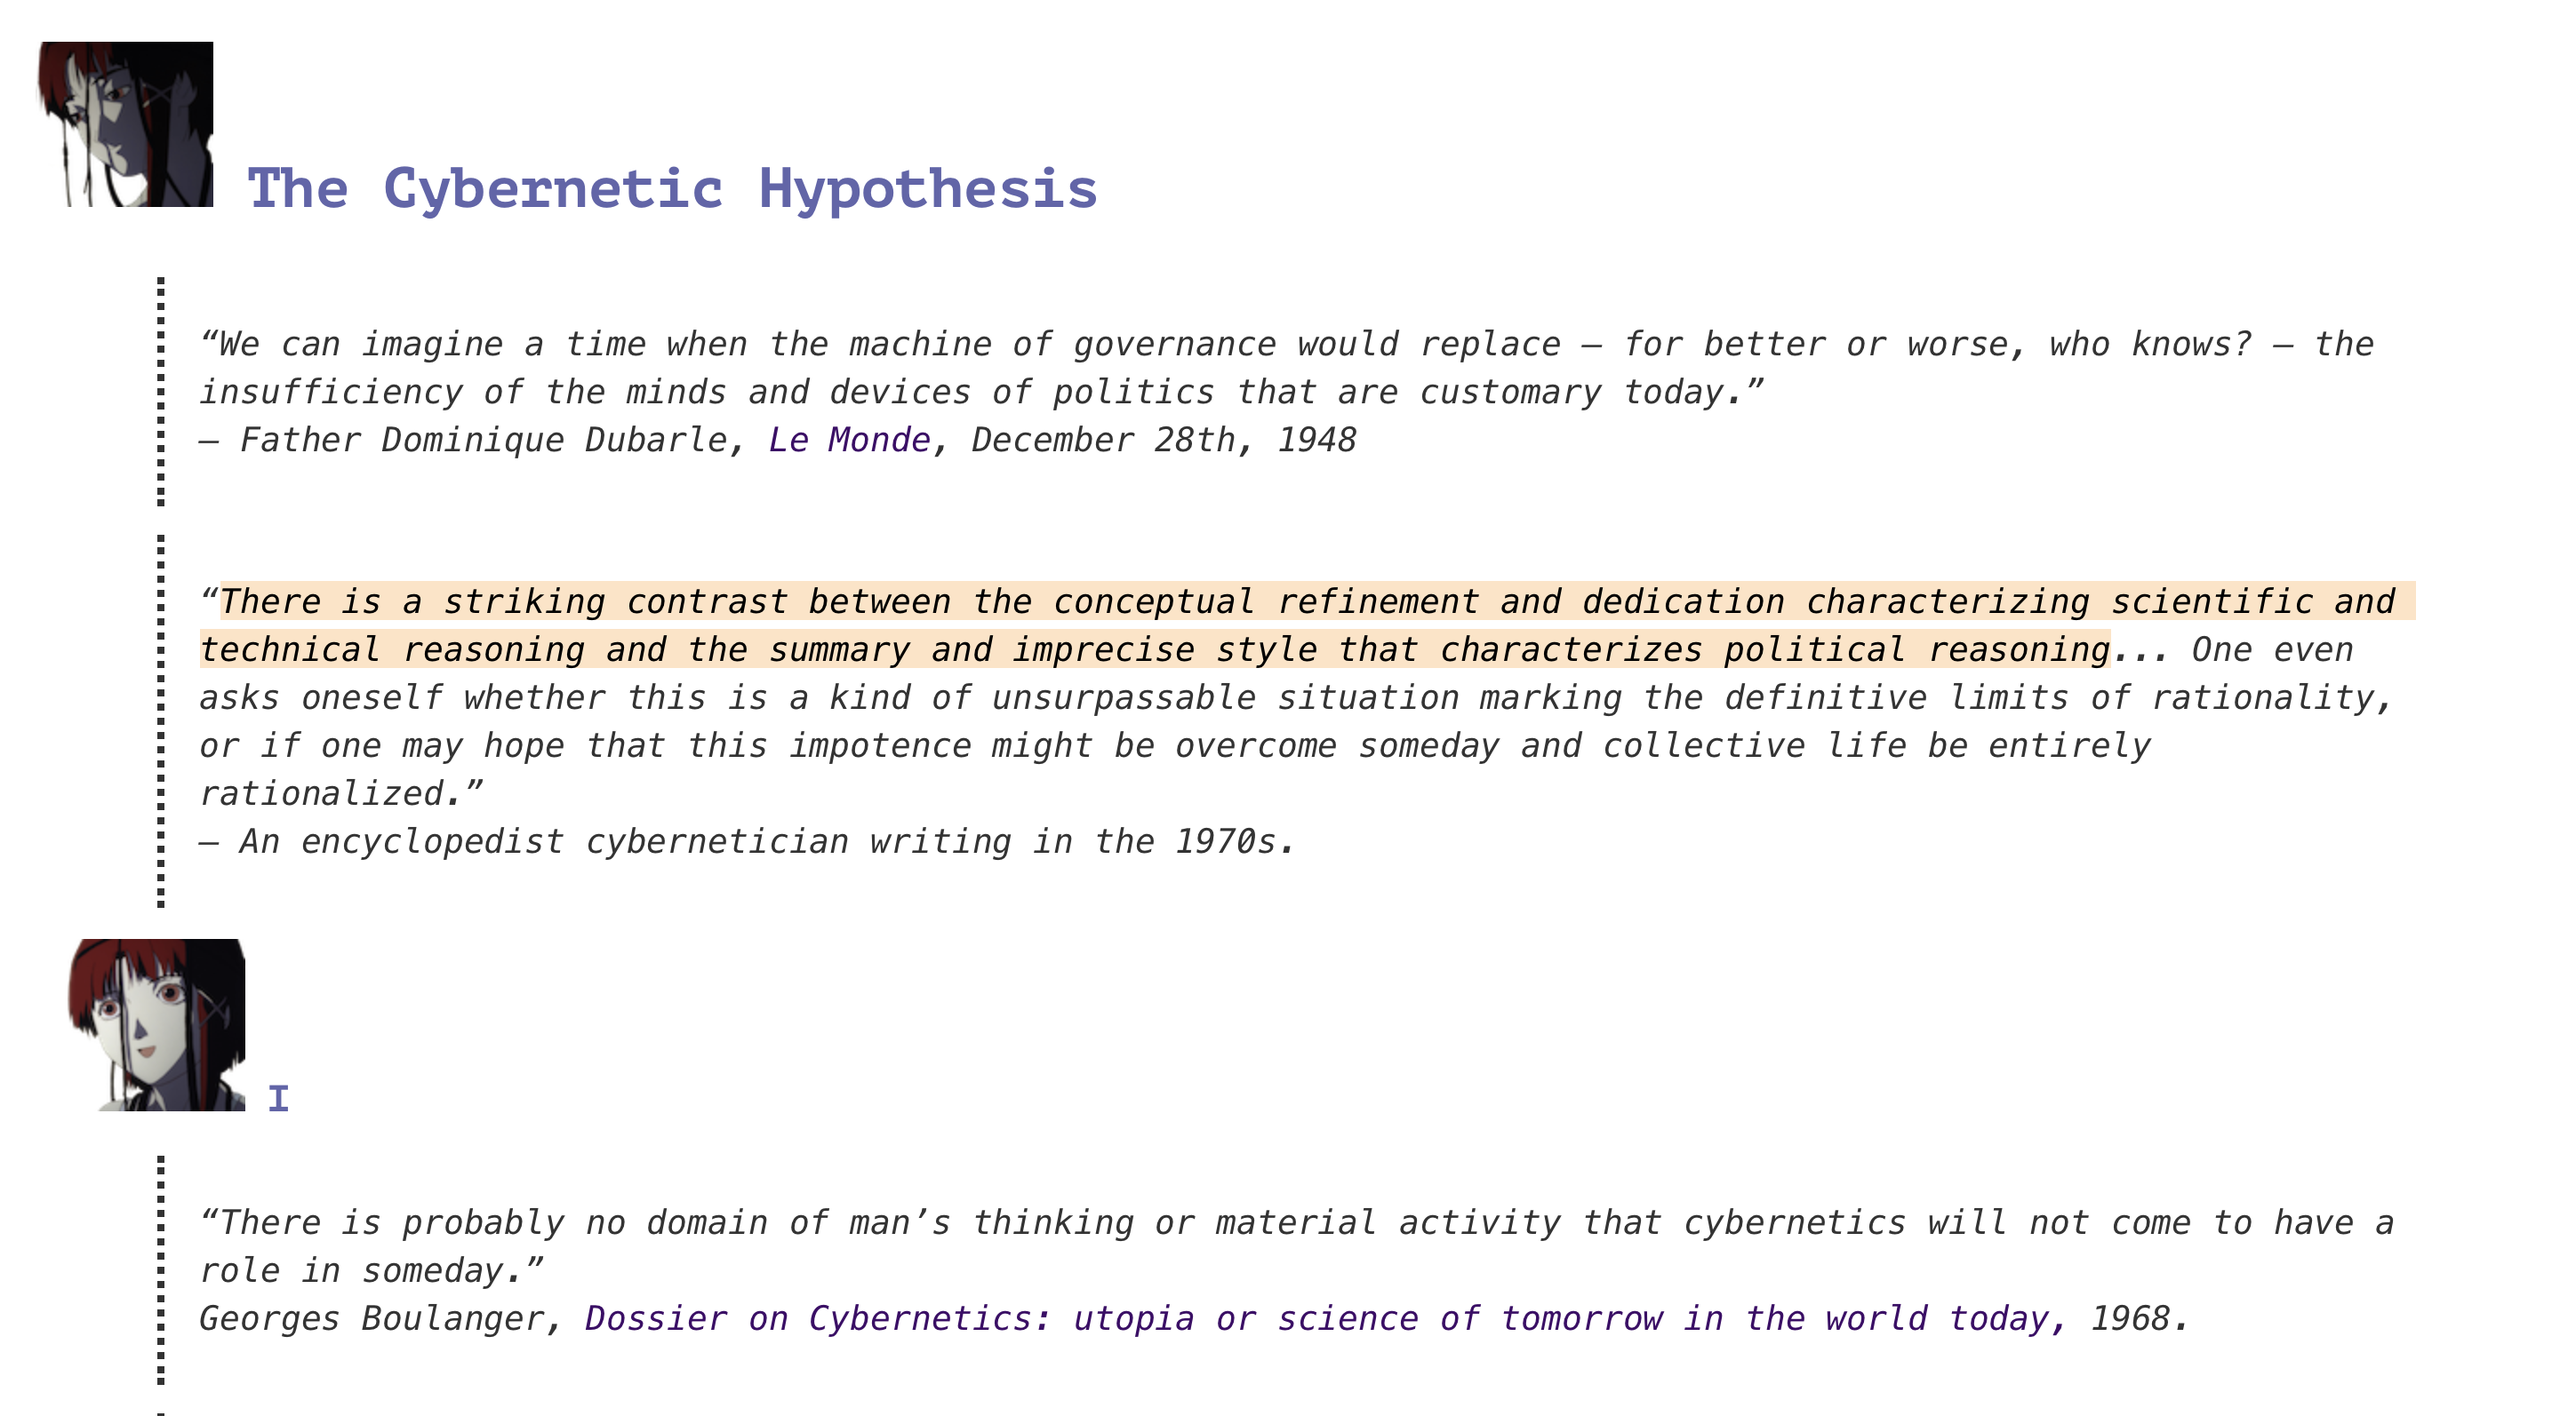
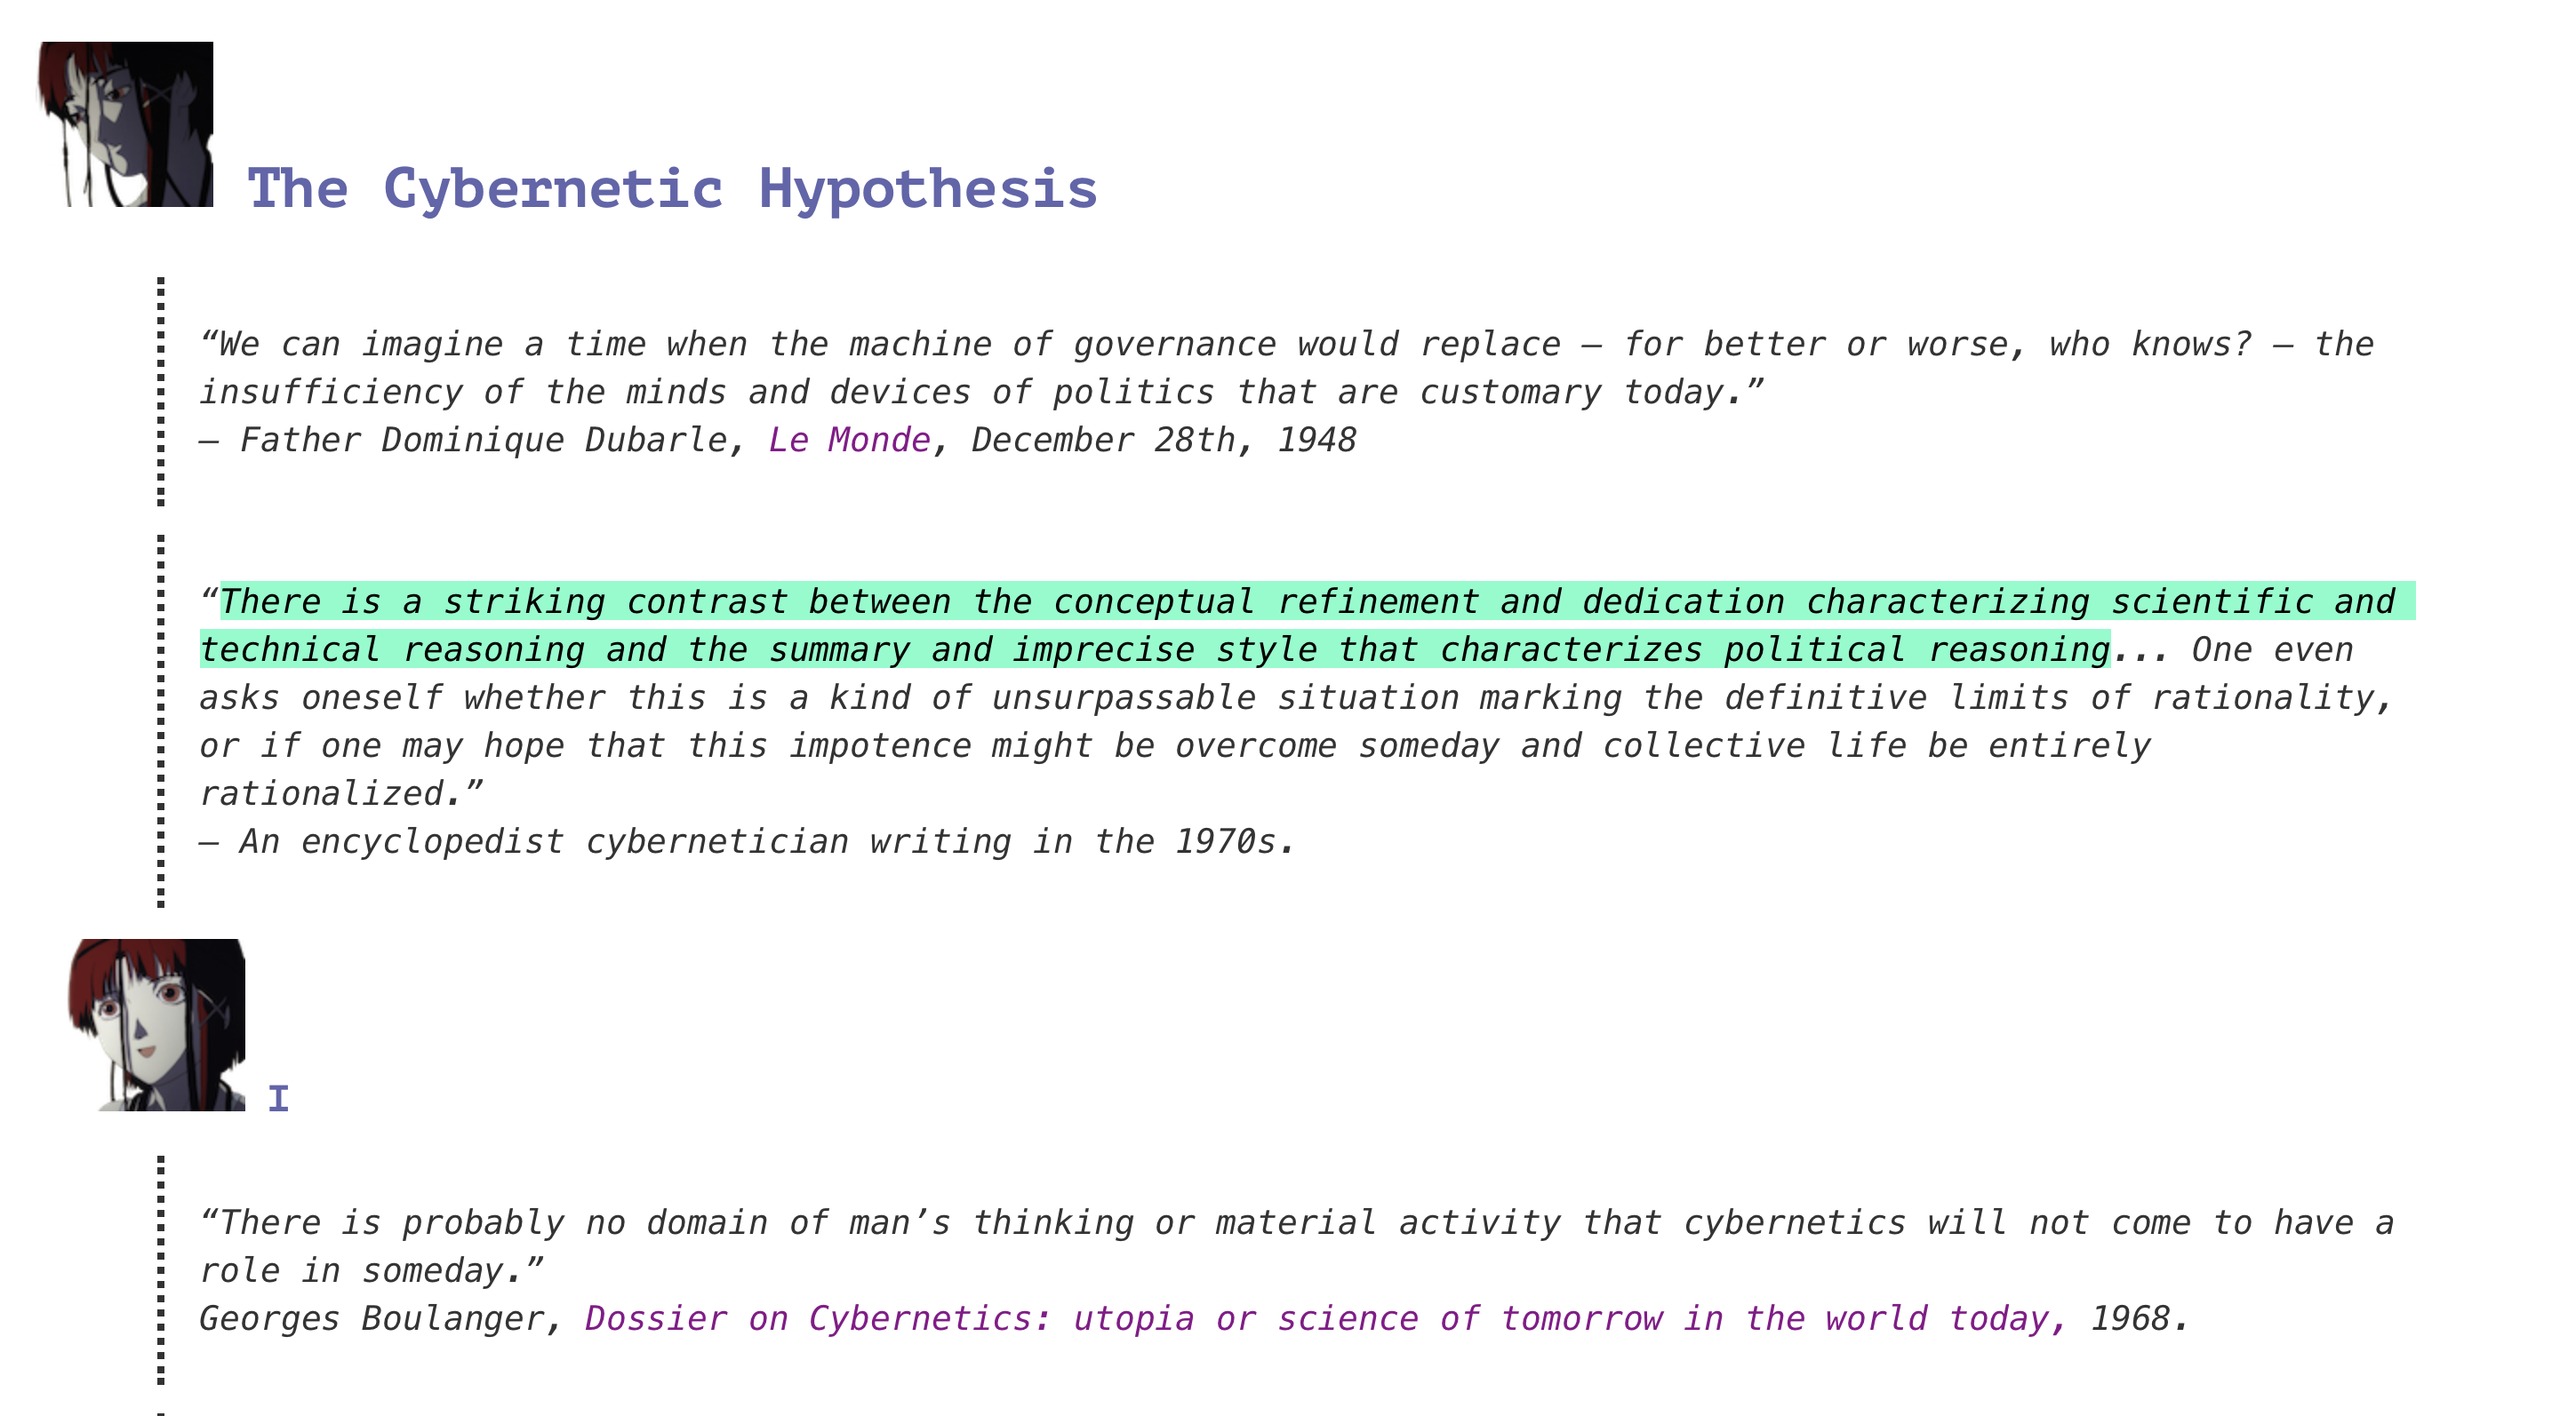
update cyberia

diff --git a/cyberia.css b/cyberia.css
@@ -15,13 +15,9 @@
 }
 
 :root {
-  /*--side-bar-bg-color: #263238;*/
   --side-bar-bg-color: white;
-  /*--active-file-bg-color: rgba(7, 145, 253, 0.57);*/
-  /*--active-file-bg-color: rgba(211, 100, 161, 0.57);*/
-  --active-file-bg-color: #555;
-  --active-file-text-color: white;
-  /*--control-text-color: #ddd;*/
+  /* --active-file-bg-color: #7EE3BB; */
+  --active-file-text-color: #222;
   --control-text-color: #222;
   --search-select-text-color: #eee;
   --search-select-bg-color: #E80C68;
@@ -543,17 +539,23 @@ hr:after {
  * Inline Elements
  */
 code {
-  color: #949415;
-  font-size: 0.9em;
+  color: #fff;
+  font-size: inherit;
+  background-color: #5b508d;
+  padding: 2px;
+  border-radius: 3px;
+  margin: 2px;
+  font-weight: bold;
 }
 mark {
-  background: bisque;
+  background-color: #72FFC9;
+  color: black;
 }
 strong {
-  color: #8E1B5A;
+  color: #E80C68;
 }
 em {
-  color: #400469;
+  color: darkmagenta;
 }
 a {
   color: #E80C68;
@@ -587,7 +589,7 @@ a {
   color: #5b808d;
 }
 #typora-source .cm-comment {
-  color: #949415;
+  color: #A73172;
 }
 /*
  * Electron UI

diff --git a/cyberia-dark.css b/cyberia-dark.css
@@ -589,7 +589,7 @@ hr:after {
  * Inline Elements
  */
 code {
-    color: fff;
+    color: #fff;
     font-size: inherit;
     background-color: #5b508d;
     padding: 2px;
